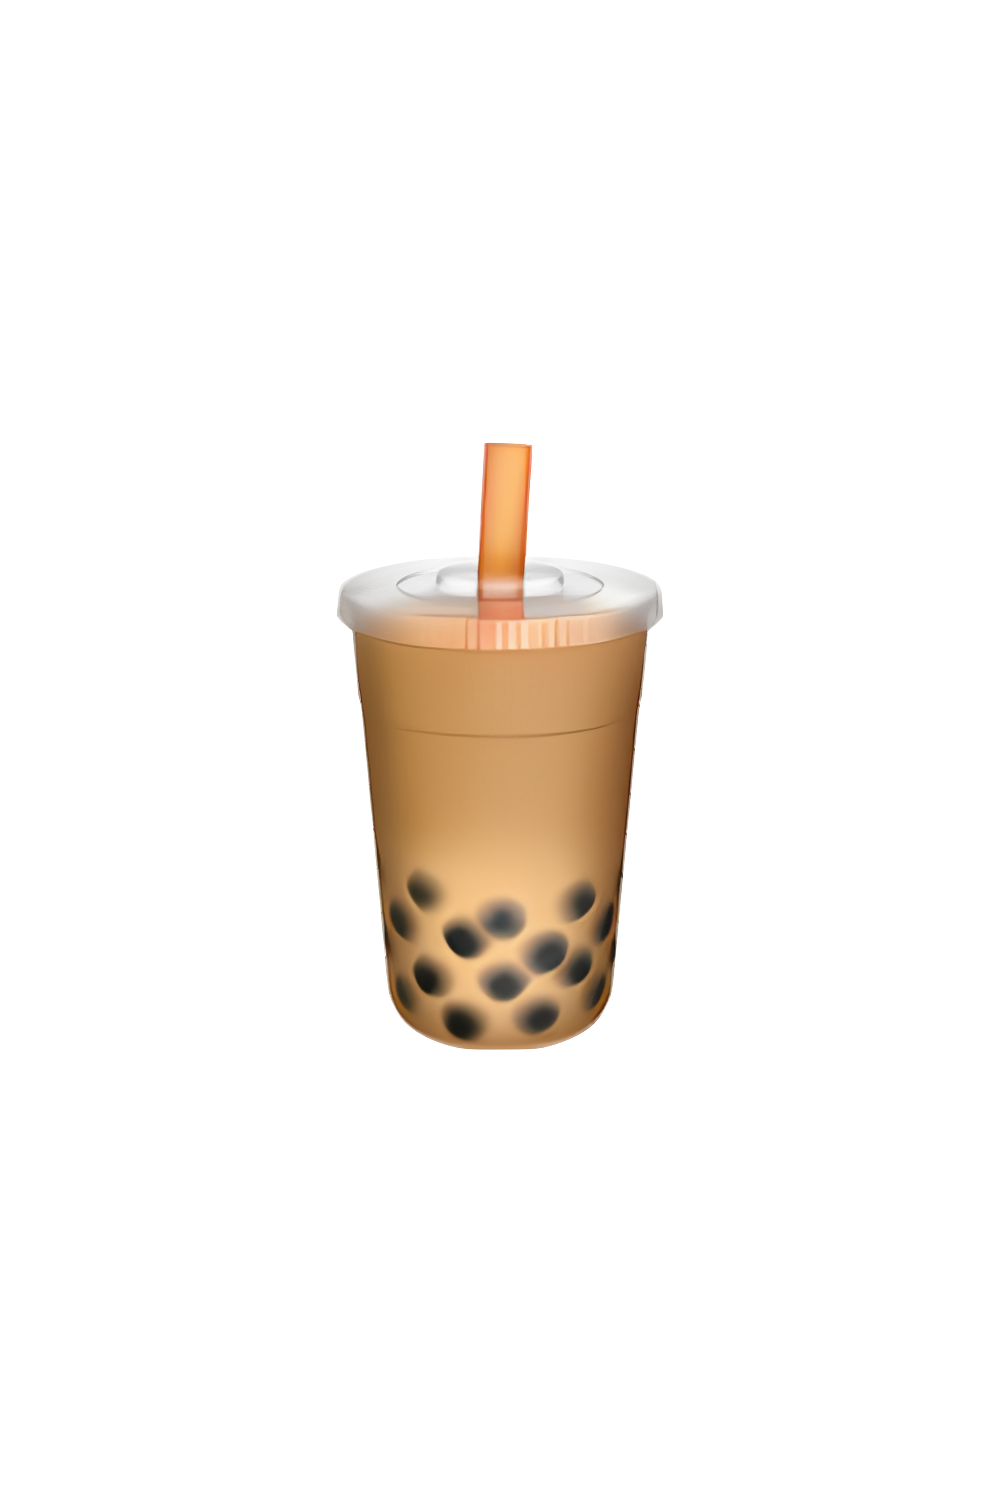
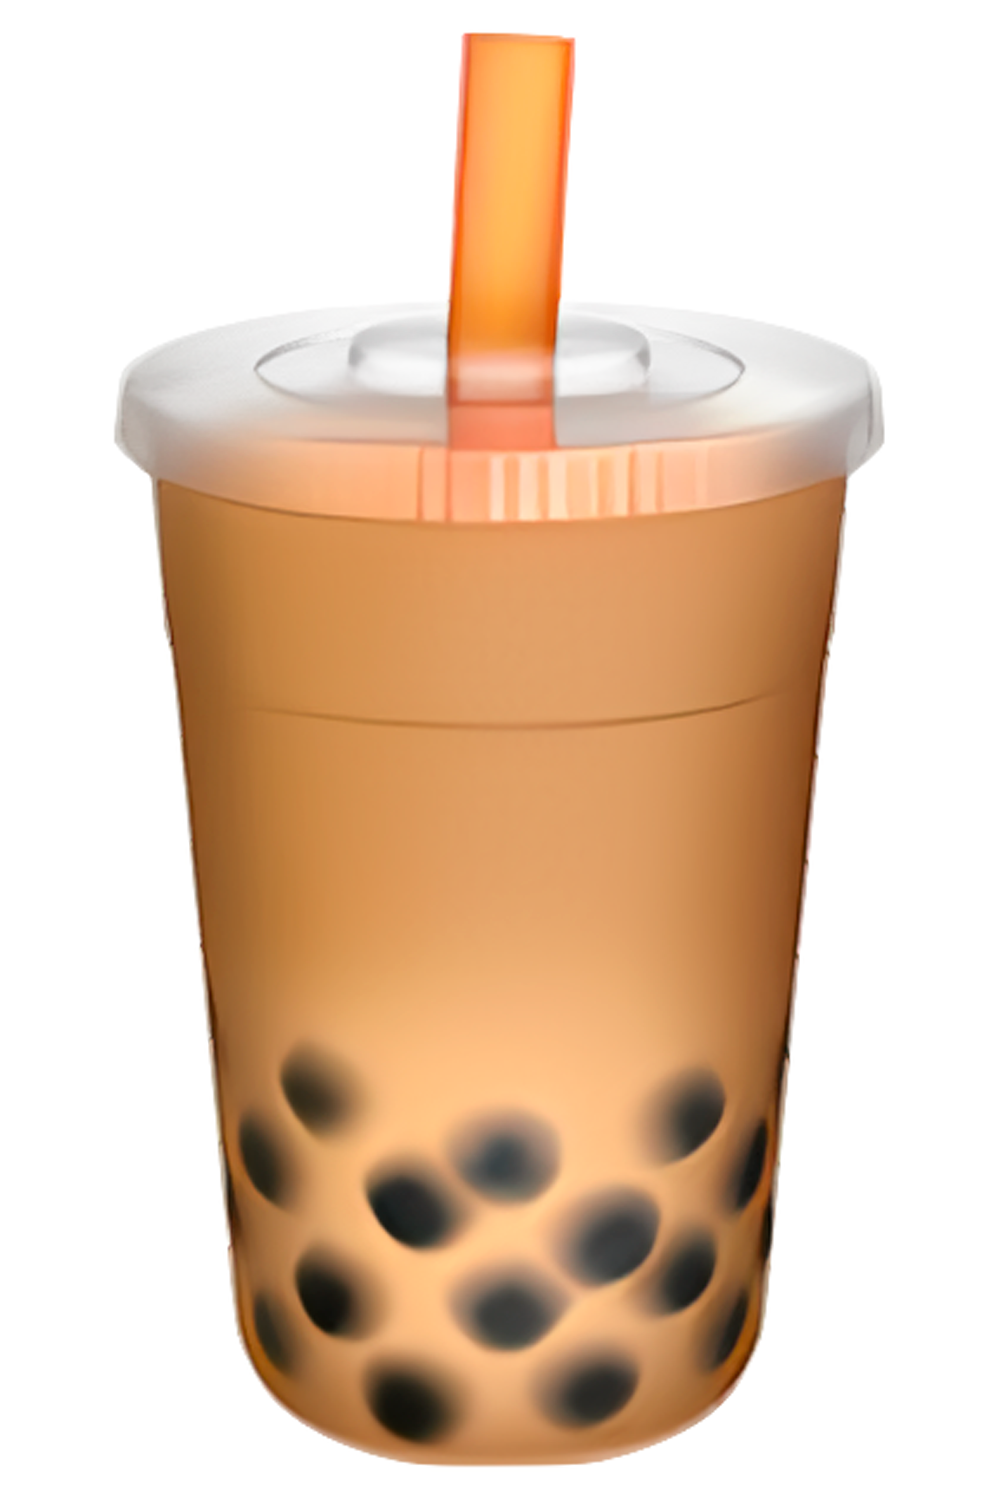
Adicionado imagens dos pratos e bebidas, adicionado verificação na hora de finalizar a comanda, e mudar o icone do launcher

diff --git a/lib/sidebar.dart b/lib/sidebar.dart
@@ -35,7 +35,8 @@ class _SidebarWithMenuState extends State<SidebarWithMenu> {
 
   void _addToCart(Product product, int quantity, String observation) {
     setState(() {
-      _cart.add(CartItem(product: product, quantity: quantity, observation: observation));
+      _cart.add(CartItem(
+          product: product, quantity: quantity, observation: observation));
       _selectedProduct = null; // Volta para a lista de produtos
     });
   }
@@ -43,31 +44,80 @@ class _SidebarWithMenuState extends State<SidebarWithMenu> {
   void _navigateToCart(BuildContext context) {
     Navigator.push(
       context,
-      MaterialPageRoute(builder: (context) => CartScreen(cart: _cart, onCheckout: _checkout, onCartItemPressed: _showCartItemDetails)),
+      MaterialPageRoute(
+          builder: (context) => CartScreen(
+              cart: _cart,
+              onCheckout: _checkout,
+              onCartItemPressed: _showCartItemDetails)),
     );
   }
+
 // solicita fechar conta
   void _checkout() {
-    setState(() {
-      _cart.clear();
-    });
-    Navigator.popUntil(context, ModalRoute.withName('/'));
-    showDialog(
-      context: context,
-      builder: (context) => AlertDialog(
-        title: Text('Solicitar conta'),
-        content: Text('Conta solicitada. Um garçom se dirigirá a sua mesa!'),
-        actions: [
-          TextButton(
-            onPressed: () {
-              Navigator.of(context).pop();
-            },
-            child: Text('OK'),
-          ),
-        ],
-      ),
-    );
+    if (_cart.isEmpty) {
+      // Mostrar mensagem se o carrinho estiver vazio
+      showDialog(
+        context: context,
+        builder: (context) => AlertDialog(
+          title: Text('Comanda vazia'),
+          content: Text('Você não adicionou nenhum item na comanda.'),
+          actions: [
+            TextButton(
+              onPressed: () {
+                Navigator.of(context).pop();
+              },
+              child: Text('OK'),
+            ),
+          ],
+        ),
+      );
+    } else {
+      // Mostrar diálogo de confirmação antes de fechar a comanda
+      showDialog(
+        context: context,
+        builder: (context) => AlertDialog(
+          title: Text('Confirmar fechamento'),
+          content: Text('Você tem certeza que deseja fechar a comanda?'),
+          actions: [
+            TextButton(
+              onPressed: () {
+                Navigator.of(context).pop(); // Fechar o diálogo de confirmação
+              },
+              child: Text('Cancelar'),
+            ),
+            TextButton(
+              onPressed: () {
+                Navigator.of(context).pop(); // Fechar o diálogo de confirmação
+                // Proceder com a solicitação de fechar a comanda se houver itens no carrinho
+                setState(() {
+                  _cart.clear();
+                });
+                Navigator.popUntil(context, ModalRoute.withName('/'));
+                showDialog(
+                  context: context,
+                  builder: (context) => AlertDialog(
+                    title: Text('Solicitar conta'),
+                    content: Text(
+                        'Conta solicitada. Um garçom se dirigirá a sua mesa!'),
+                    actions: [
+                      TextButton(
+                        onPressed: () {
+                          Navigator.of(context).pop();
+                        },
+                        child: Text('OK'),
+                      ),
+                    ],
+                  ),
+                );
+              },
+              child: Text('Confirmar'),
+            ),
+          ],
+        ),
+      );
+    }
   }
+
 // detalhes dos itens do carrinho
   void _showCartItemDetails(CartItem cartItem) {
     showDialog(
@@ -79,7 +129,8 @@ class _SidebarWithMenuState extends State<SidebarWithMenu> {
           mainAxisSize: MainAxisSize.min,
           children: [
             Text('Quantidade: ${cartItem.quantity}'),
-            if (cartItem.observation.isNotEmpty) Text('Observação: ${cartItem.observation}'),
+            if (cartItem.observation.isNotEmpty)
+              Text('Observação: ${cartItem.observation}'),
           ],
         ),
         actions: [
@@ -165,6 +216,7 @@ class HorizontalSidebar extends StatelessWidget {
     );
   }
 }
+
 //itens do menu
 class MenuItems extends StatelessWidget {
   final Function(String) onMenuItemSelected;
@@ -318,7 +370,8 @@ class ContentArea extends StatelessWidget {
                         product.imagePath,
                         width: 50,
                         height: 50,
-                        errorBuilder: (BuildContext context, Object exception, StackTrace? stackTrace) {
+                        errorBuilder: (BuildContext context, Object exception,
+                            StackTrace? stackTrace) {
                           return Text('Imagem não encontrada');
                         },
                       ),
@@ -342,13 +395,17 @@ class ContentArea extends StatelessWidget {
     }
   }
 }
+
 //detalhes do produto
 class ProductDetailsScreen extends StatefulWidget {
   final Product product;
   final VoidCallback onBackButtonPressed;
   final Function(Product, int, String) addToCart;
 
-  ProductDetailsScreen({required this.product, required this.onBackButtonPressed, required this.addToCart});
+  ProductDetailsScreen(
+      {required this.product,
+      required this.onBackButtonPressed,
+      required this.addToCart});
 
   @override
   _ProductDetailsScreenState createState() => _ProductDetailsScreenState();
@@ -390,7 +447,8 @@ class _ProductDetailsScreenState extends State<ProductDetailsScreen> {
               widget.product.imagePath,
               width: 300,
               height: 300,
-              errorBuilder: (BuildContext context, Object exception, StackTrace? stackTrace) {
+              errorBuilder: (BuildContext context, Object exception,
+                  StackTrace? stackTrace) {
                 return Text('Imagem não encontrada');
               },
             ),
@@ -451,7 +509,8 @@ class _ProductDetailsScreenState extends State<ProductDetailsScreen> {
           Center(
             child: ElevatedButton(
               onPressed: () {
-                widget.addToCart(widget.product, _quantity, _observationController.text);
+                widget.addToCart(
+                    widget.product, _quantity, _observationController.text);
               },
               child: Text('Adicionar ao Carrinho'),
               style: ElevatedButton.styleFrom(
@@ -472,23 +531,32 @@ class Product {
   final String description;
   final String imagePath;
 
-  Product({required this.name, required this.description, required this.imagePath});
+  Product(
+      {required this.name, required this.description, required this.imagePath});
 }
+
 //item da sacola
 class CartItem {
   final Product product;
   final int quantity;
   final String observation;
 
-  CartItem({required this.product, required this.quantity, required this.observation});
+  CartItem(
+      {required this.product,
+      required this.quantity,
+      required this.observation});
 }
+
 //tela da sacola
 class CartScreen extends StatelessWidget {
   final List<CartItem> cart;
   final VoidCallback onCheckout;
   final Function(CartItem) onCartItemPressed;
 
-  CartScreen({required this.cart, required this.onCheckout, required this.onCartItemPressed});
+  CartScreen(
+      {required this.cart,
+      required this.onCheckout,
+      required this.onCartItemPressed});
 
   @override
   Widget build(BuildContext context) {
@@ -509,7 +577,8 @@ class CartScreen extends StatelessWidget {
                     item.product.imagePath,
                     width: 50,
                     height: 50,
-                    errorBuilder: (BuildContext context, Object exception, StackTrace? stackTrace) {
+                    errorBuilder: (BuildContext context, Object exception,
+                        StackTrace? stackTrace) {
                       return Text('Imagem não encontrada');
                     },
                   ),
@@ -518,7 +587,8 @@ class CartScreen extends StatelessWidget {
                     crossAxisAlignment: CrossAxisAlignment.start,
                     children: [
                       Text('Quantidade: ${item.quantity}'),
-                      if (item.observation.isNotEmpty) Text('Observação: ${item.observation}'),
+                      if (item.observation.isNotEmpty)
+                        Text('Observação: ${item.observation}'),
                     ],
                   ),
                   onTap: () => onCartItemPressed(item),
@@ -543,6 +613,7 @@ class CartScreen extends StatelessWidget {
     );
   }
 }
+
 //mappings
 final Map<String, List<Product>> products = {
   'Saladas': [

diff --git a/lib/register.dart b/lib/register.dart
@@ -25,42 +25,21 @@ class MyHomePage extends StatefulWidget {
 }
 
 class _MyHomePageState extends State<MyHomePage> {
-  String? selectedEmployee;
   String? selectedTable;
   bool isButtonEnabled = false;
 
-  final List<String> employees = ['Employee 1', 'Employee 2', 'Employee 3'];
-  final List<String> tables = ['Table 1', 'Table 2', 'Table 3'];
+  final List<String> tables = ['Mesa 1', 'Mesa 2', 'Mesa 3'];
 
   @override
   Widget build(BuildContext context) {
     return Scaffold(
-      appBar: AppBar(
-        title: Text('Dropdown Example'),
-      ),
       body: Center(
         child: Column(
           mainAxisAlignment: MainAxisAlignment.center,
           children: <Widget>[
-            DropdownButton<String>(
-              hint: Text('Select Employee'),
-              value: selectedEmployee,
-              onChanged: (String? newValue) {
-                setState(() {
-                  selectedEmployee = newValue!;
-                  updateButtonState();
-                });
-              },
-              items: employees.map((String employee) {
-                return DropdownMenuItem<String>(
-                  value: employee,
-                  child: Text(employee),
-                );
-              }).toList(),
-            ),
             SizedBox(height: 20),
             DropdownButton<String>(
-              hint: Text('Select Table'),
+              hint: Text('Selecionar Mesa'),
               value: selectedTable,
               onChanged: (String? newValue) {
                 setState(() {
@@ -79,7 +58,7 @@ class _MyHomePageState extends State<MyHomePage> {
             ElevatedButton(
               onPressed:
                   isButtonEnabled ? () => _saveSelectedTable(context) : null,
-              child: Text('Submit'),
+              child: Text('Prosseguir'),
             ),
           ],
         ),
@@ -89,7 +68,7 @@ class _MyHomePageState extends State<MyHomePage> {
 
   void updateButtonState() {
     setState(() {
-      isButtonEnabled = selectedEmployee != null && selectedTable != null;
+      isButtonEnabled = selectedTable != null;
     });
   }
 
